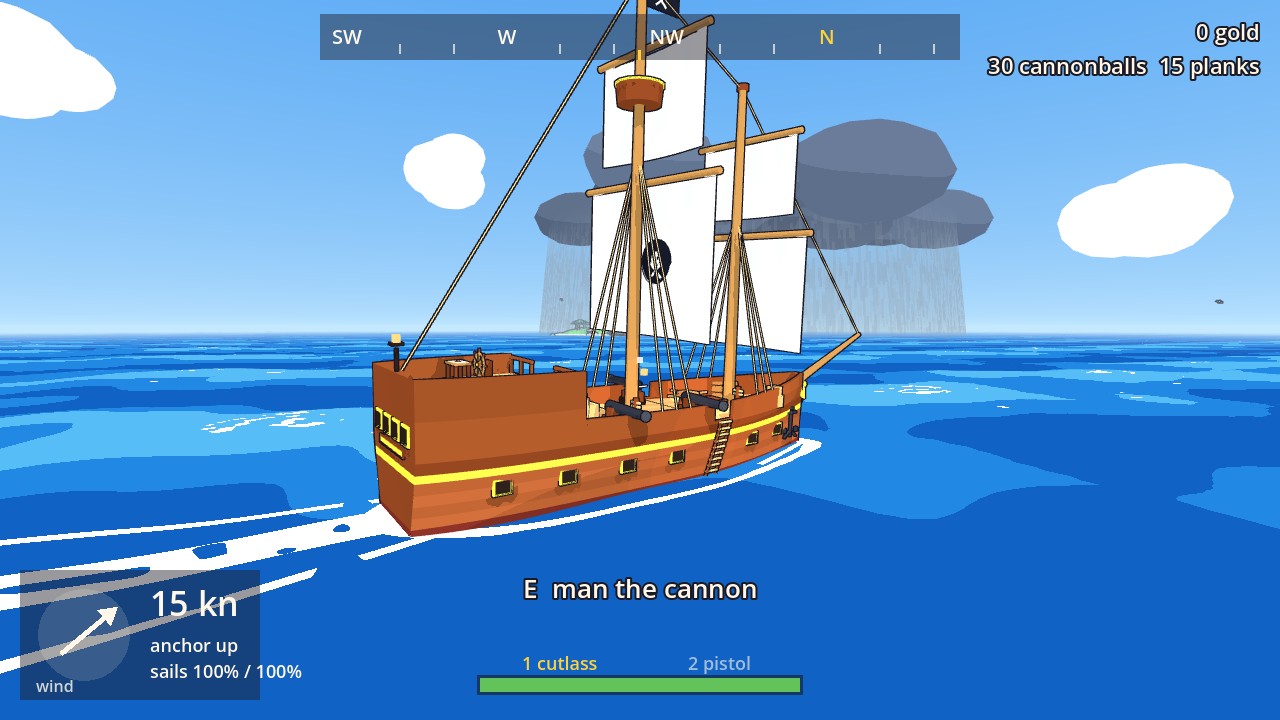
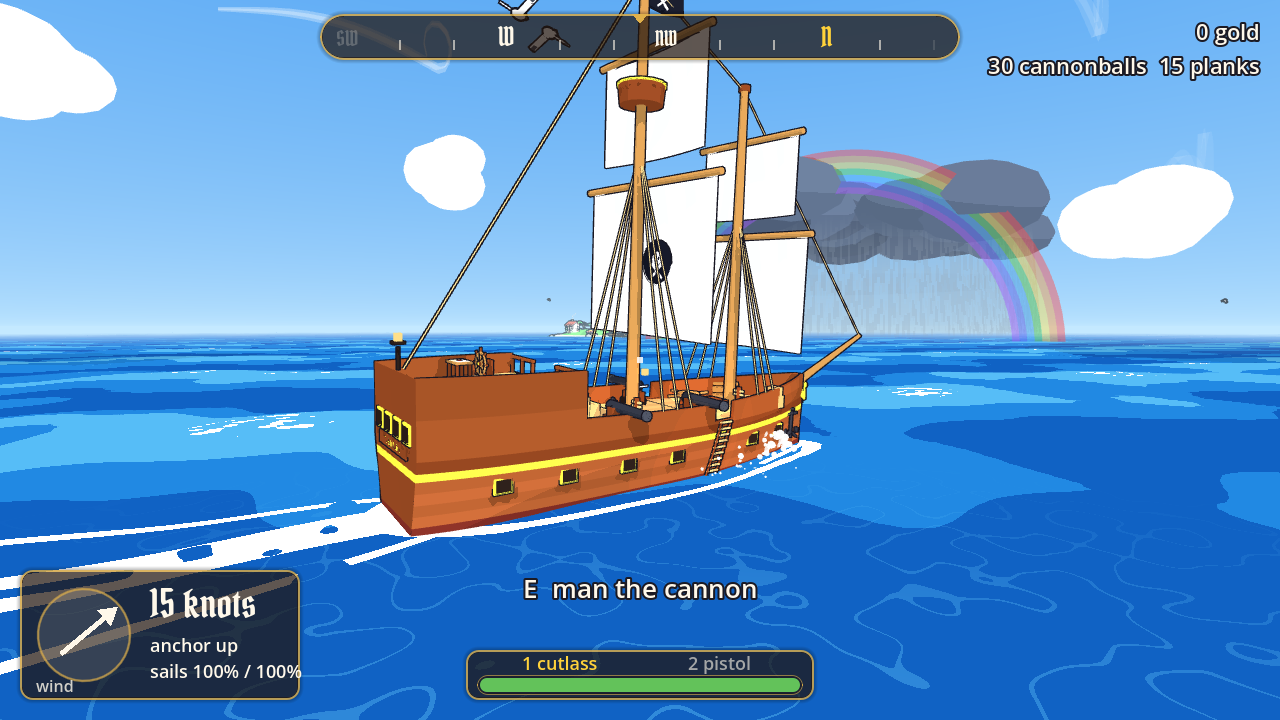
A rainbow stands in front of the storm when you watch it from outside on a bright day

diff --git a/docs/specs/2026-10-07-art-pass-1.md b/docs/specs/2026-10-07-art-pass-1.md
@@ -10,7 +10,7 @@ outlines chosen at the start.
 |---|---|
 | Title screen | A live scene behind the menu: the galleon sailing at golden hour. |
 | Sky and light | A 24-minute day on the shared server clock: sunrise, golden hour, sunset glow, a moon, twinkling stars, blue nights. Lanterns, pier lamps, camp fires and the lighthouse come on at dusk. |
-| Weather | One storm roams the map: a dark cloud bank over a curtain of rain from afar; grey light, closing fog, rain and lightning inside. Scenery only for now (no effect on waves or ships). |
+| Weather | One storm roams the map: a dark cloud bank over a curtain of rain from afar; grey light, closing fog, rain and lightning inside; on a bright day a rainbow stands in front of it. Scenery only for now (no effect on waves or ships). |
 | Sea | Bright shallows with caustic ripples, foam rings on beaches, wakes, a bow wave, sun glints, ripple lines close by, cloud shadows drifting across. The sea now cuts out the hulls of the nearest 8 ships (was 4). |
 | Ships | Planked hulls, sail panels, crew sail colours and emblem, gold name lettered on the stern, fluttering flag, sails that breathe in gusts, bow spray at speed, a hold with frames and hammocks, stern windows lit at night, cannonball piles, gulls round the mainmast. Skeleton ships: torn sails and a green mist. |
 | Sinking | Bubbles over a sinking ship, then planks and barrels floating where she went down. |

diff --git a/README.md b/README.md
@@ -22,7 +22,7 @@ crew vs crew: fight other crews, sink their ships and steal their chests. The se
 | ![Port Merrow](docs/screenshots/outpost.png) | ![A treasure map](docs/screenshots/treasure-map.png) |
 | ![Skeletons on Parrot Rock](docs/screenshots/skeletons.png) | ![Two crews' ships](docs/screenshots/two-crews.png) |
 | ![Sunset](docs/screenshots/sunset.png) | ![Night, lanterns lit](docs/screenshots/night.png) |
-| ![A storm on the horizon](docs/screenshots/storm.png) | ![Inside the storm](docs/screenshots/in-the-storm.png) |
+| ![A storm on the horizon, with a rainbow](docs/screenshots/storm.png) | ![Inside the storm](docs/screenshots/in-the-storm.png) |
 | ![Port Merrow's lighthouse at night](docs/screenshots/lighthouse-night.png) | ![The rock arch on Gull Isle](docs/screenshots/gull-isle-arch.png) |
 | ![The tavern at Port Merrow](docs/screenshots/tavern.png) | |
 
